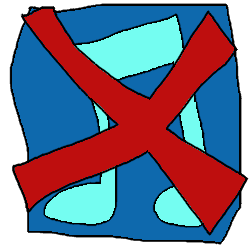
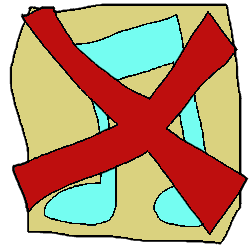
display update ; cheat-mode upgrade

diff --git a/src/display/display_game.py b/src/display/display_game.py
@@ -23,26 +23,31 @@ class DisplayGame(BaseDisplay):
 
     def draw_pacman(self, padx: int, pady: int) -> None:
         """  """ #  TODO
+        if self.engine.cheat_invincible:
+            skin = "sprit_pacman_cheat"
+        else:
+            skin = "sprit_pacman"
         match self.player.next_direction:
             case Direction.UP:
-                row = 0
+                self.row = 0
             case Direction.LEFT:
-                row = 2
+                self.row = 2
             case Direction.RIGHT:
-                row = 3
+                self.row = 3
             case Direction.DOWN:
-                row = 1
+                self.row = 1
             case _:
+                col = self.rotasprit
                 w, h = 250, 250
-                src = s2.SDL_Rect(2 * w, 3 * h, w, h)
+                src = s2.SDL_Rect(2 * w, self.row * h, w, h)
                 dst = s2.SDL_Rect(int(self.player.xf * self.cell + padx), int(self.player.yf * self.cell + pady), self.cell, self.cell)
-                s2.SDL_RenderCopy(self.renderer, self.t["sprit_pacman"], src, dst)
+                s2.SDL_RenderCopy(self.renderer, self.t[skin], src, dst)
                 return
         col = self.rotasprit
         w, h = 250, 250
-        src = s2.SDL_Rect(col * w, row * h, w, h)
+        src = s2.SDL_Rect(col * w, self.row * h, w, h)
         dst = s2.SDL_Rect(int(self.player.xf * self.cell + padx), int(self.player.yf * self.cell + pady), self.cell, self.cell)
-        s2.SDL_RenderCopy(self.renderer, self.t["sprit_pacman"], src, dst)
+        s2.SDL_RenderCopy(self.renderer, self.t[skin], src, dst)
 
     def draw_ghosts(self, padx: int, pady: int) -> None:
         """  """ #  TODO
@@ -60,7 +65,10 @@ class DisplayGame(BaseDisplay):
                     case _:
                         row = 1
                 if ghost.state == GhostState.EDIBLE:
-                    s2.SDL_SetTextureColorMod(self.t[color], 110, 80, 220)
+                    if ghost.timer <= 2 and self.rotasprit > 3:
+                        s2.SDL_SetTextureColorMod(self.t[color], 198, 120, 235)
+                    else: 
+                        s2.SDL_SetTextureColorMod(self.t[color], 110, 80, 220)
                 else:
                     s2.SDL_SetTextureColorMod(self.t[color], 255, 255, 255)
 
@@ -89,6 +97,8 @@ class DisplayGame(BaseDisplay):
 
         dst = s2.SDL_Rect(self.midxy[0] - 400, self.midxy[1] * 2 - 150, 420, 140)        
         s2.SDL_RenderCopy(self.renderer, self.t["time"], None, dst)
+        if self.engine.time_left < 0:
+            self.engine.time_left = 0
         s_time = f"{round(self.engine.time_left, 2)}"
         self.draw_text(s_time, self.midxy[0] + 30, self.midxy[1] * 2 - 105, len(s_time) * 20, 50, self.font1, "white")
 
@@ -117,6 +127,11 @@ class DisplayGame(BaseDisplay):
             self.rotasprit = abs(self.n_rotasprit)
 
         self.sprits_rate = (self.sprits_rate + 1) % 5
+
+        if self.player.xf == self.xyf[0] and self.player.yf == self.xyf[1]:
+            self.player.next_direction = Direction.NONE
+        self.xyf[0] = self.player.xf
+        self.xyf[1] = self.player.yf
 
     def game_over_process(self, padx: int, pady: int) -> str:
 
@@ -195,10 +210,11 @@ class DisplayGame(BaseDisplay):
         lives = self.player.lives
         level = self.engine.current_level
         if self.shake_death == 0:
-            if self.player.next_direction != Direction.NONE:
+            if self.start:
                 self.engine.update(self.delta_time)
                 if level != self.engine.current_level:
                     self.init_engine(self.engine.current_level)
+                    return "reload"
         else:
             if self.midxy[0] <= self.shake_death:
                 self.midxy[0] -= 2
@@ -212,6 +228,7 @@ class DisplayGame(BaseDisplay):
                 self.shake_death = 0
 
         if self.player.lives != lives:
+            self.start = False
             self.shake_death = self.midxy[0]
             channel = s2_mix.Mix_PlayChannel(-1, self.sounds["left_life_sound"], 0)
 

diff --git a/src/inputs/input_process.py b/src/inputs/input_process.py
@@ -22,6 +22,7 @@ class InputEngine(SDLCoreEngine):
         match self.d.text:
             case "/cheat":
                 self.text_mode = False
+                self.player.speed = self.player.speed * 1.5
                 self.engine.toggle_invincibility()
             case "/next":
                 self.text_mode = False
@@ -35,12 +36,20 @@ class InputEngine(SDLCoreEngine):
         match event.key.keysym.sym:
             case s2.SDLK_UP | s2.SDLK_w:
                 self.player.next_direction = Direction.UP
+                if not self.d.start:
+                    self.d.start = True
             case s2.SDLK_RIGHT | s2.SDLK_d:
                 self.player.next_direction = Direction.RIGHT
+                if not self.d.start:
+                    self.d.start = True
             case s2.SDLK_DOWN | s2.SDLK_s:
                 self.player.next_direction = Direction.DOWN
+                if not self.d.start:
+                    self.d.start = True
             case s2.SDLK_LEFT | s2.SDLK_a:
                 self.player.next_direction = Direction.LEFT
+                if not self.d.start:
+                    self.d.start = True
             case s2.SDLK_ESCAPE:
                 return "escape"
             case s2.SDLK_SLASH:
@@ -170,6 +179,9 @@ class InputEngine(SDLCoreEngine):
                     if event.button.x < self.midxy[0] - 110:
                         return self.previous
                     if event.button.x > self.midxy[0] + 110:
+                        if self.d.name:
+                            self.engine.highscore_manager.add_score(self.d.name, self.engine.score)
+                            self.d.name = ""
                         if self.previous == "menu":
                             return "exit"
                         else:
@@ -186,6 +198,6 @@ class InputEngine(SDLCoreEngine):
                 self.d.text = self.d.text[:-1]
             case s2.SDLK_RETURN:
                 if self.d.text and len(self.d.text) <= 10 and self.d.text.isalnum():
-                    self.engine.highscore_manager.add_score(self.d.text, self.engine.score)
-                    return "menu"
+                    self.d.name = self.d.text
+                    return "confirm_quit"
         return ""

diff --git a/src/display/display_base.py b/src/display/display_base.py
@@ -21,6 +21,7 @@ class BaseDisplay:
                  font1: Any, font2: Any, font3: Any, midxy: list[int]) -> None:
         """  """  # TODO
         self.engine = engine
+        self.start = False
         self.s = sounds
         self.sounds = sounds.sounds
         self.eat_sounds = ["eat_sound1", "eat_sound2", "eat_sound3"]
@@ -51,6 +52,9 @@ class BaseDisplay:
         self.i = 0
         self.seed = 0
         self.level = 0
+        self.xyf = [0, 0]
+        self.row = 1
+        self.name = ""
         self.ghost_color = {
             0: "sprit_ghost1",
             1: "sprit_ghost2",
@@ -83,6 +87,8 @@ class BaseDisplay:
     def init_engine(self, level: int):
         """  """
         #  TODO
+        self.start = False
+        self.i = 0
         self.maze = self.engine.maze.grid
         self.player = self.engine.player
         self.ghosts = self.engine.ghosts
@@ -95,6 +101,8 @@ class BaseDisplay:
         self.shake_death = 0
         self.end = False
         self.level = level
+        self.xyf = [0, 0]
+        self.row = 1
         for ghost in self.ghosts:
             ghost.rotasprit = random.randint(0, 4)
 

diff --git a/src/display/display_ui.py b/src/display/display_ui.py
@@ -92,9 +92,8 @@ class DisplayUI(BaseDisplay):
         s2.SDL_SetTextureColorMod(self.t['music_on'], 140, 120, 180)
         s2.SDL_SetTextureColorMod(self.t['music_off'], 140, 120, 180)
         
-        size = 50
+        size_cell = int(max(self.midxy[0] * 2, self.midxy[1] * 2) * 2)
 
-        size_cell = self.cell * size
         w, h = 250, 250
         src = s2.SDL_Rect(0 * w, 1 * h, w, h)
 
@@ -193,6 +192,16 @@ class DisplayUI(BaseDisplay):
     def display_confirm_quit(self) -> None:
 
         s2.SDL_RenderClear(self.renderer)
+
+        if self.name:
+            txt = "NAME:  " + self.name
+            if len(txt) >= 19:
+                self.text = self.text[:19]
+                txt = self.text
+            w, c_size = self.get_str_sizes(txt)
+            y = 100 + c_size * 2 + 30
+            if txt:
+                self.draw_text(txt, int(self.midxy[0] - w / 2), y, w, c_size * 3, self.font3, "white")
 
         dst = s2.SDL_Rect(int(self.midxy[0] - 400), self.midxy[1] - 200, 800, 400)
         s2.SDL_RenderCopy(self.renderer, self.t['areyousure'], None, dst)

diff --git a/src/inputs/input_sdl_engine.py b/src/inputs/input_sdl_engine.py
@@ -60,7 +60,7 @@ class SDLCoreEngine(InitInputEngine):
                     display
                     )
             if res == "confirm_quit":
-                if self.previous not in {"menu", "escape"}:
+                if self.previous not in {"menu", "escape", "end"}:
                     res = "menu"
 
             self.text_mode = False
@@ -107,7 +107,6 @@ class SDLCoreEngine(InitInputEngine):
                     key_event = lambda *args: None
                     display = self.d.display_confirm_quit
                 case "end":
-                    self.d.i = 0
                     self.d.text = ""
                     self.text_mode = True
                     mouse_event = self.end_mouse

diff --git a/src/inputs/init_input_engine.py b/src/inputs/init_input_engine.py
@@ -37,7 +37,7 @@ class InitInputEngine:
     def __init__(self, path: str) -> None:
         """  """  # TODO
 
-        self.fps_limit = 16  # for 60 / 1000 for fps TODO
+        self.fps_limit = 16  #  1000 / 60 ~ fps
         self.midxy: list[int] = [int(D.w / 2), int(D.h / 2)]
         self.config_path = path
         self.engine = GameEngine(path)

diff --git a/src/display/helpers/textures.py b/src/display/helpers/textures.py
@@ -44,6 +44,7 @@ TEXTURES_PATH = [
         "sprit_ghost3.png",
         "sprit_ghost4.png",
         "sprit_pacman.png",
+        "sprit_pacman_cheat.png",
         "sprit_pacman_death.png",
 ]
 
